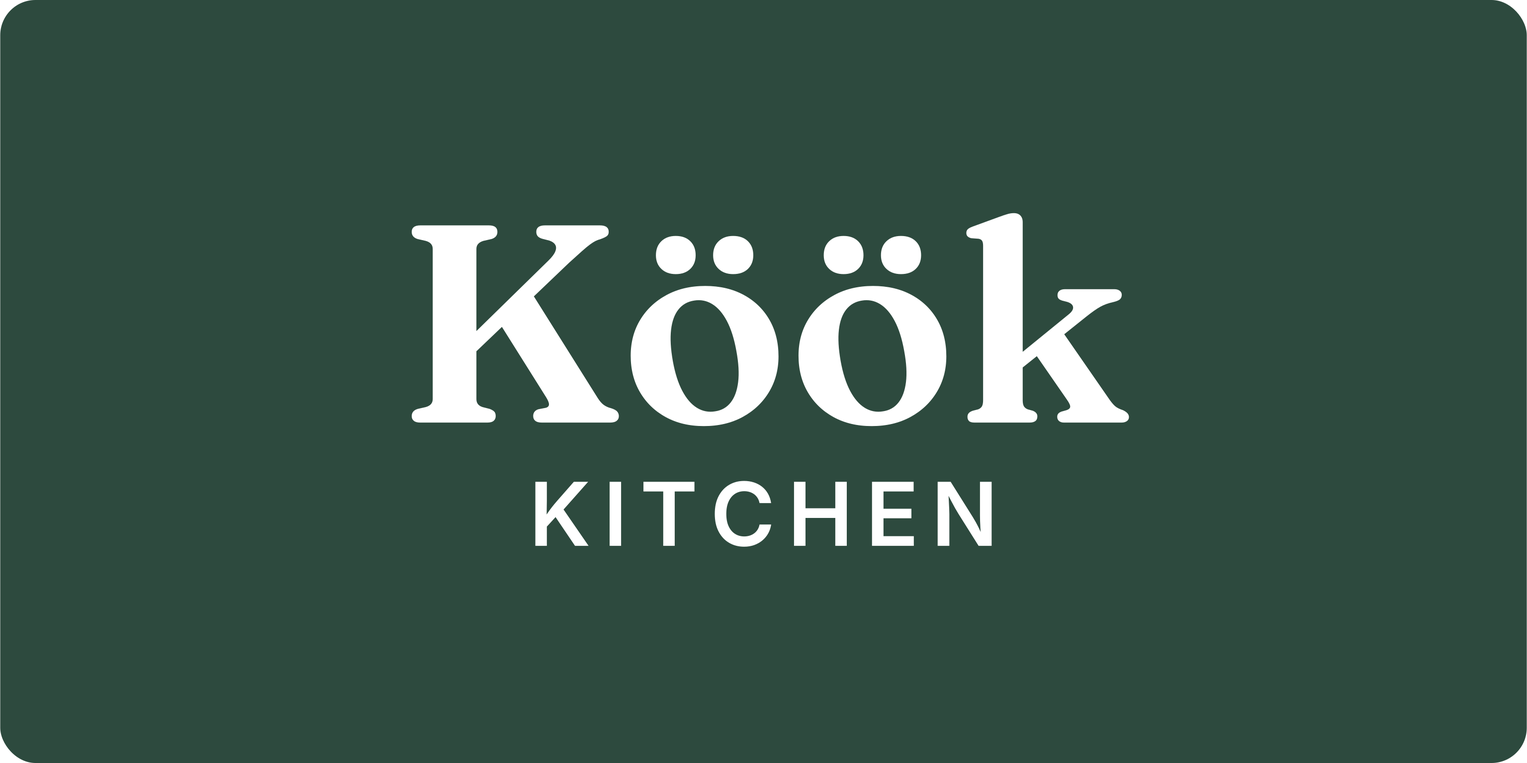
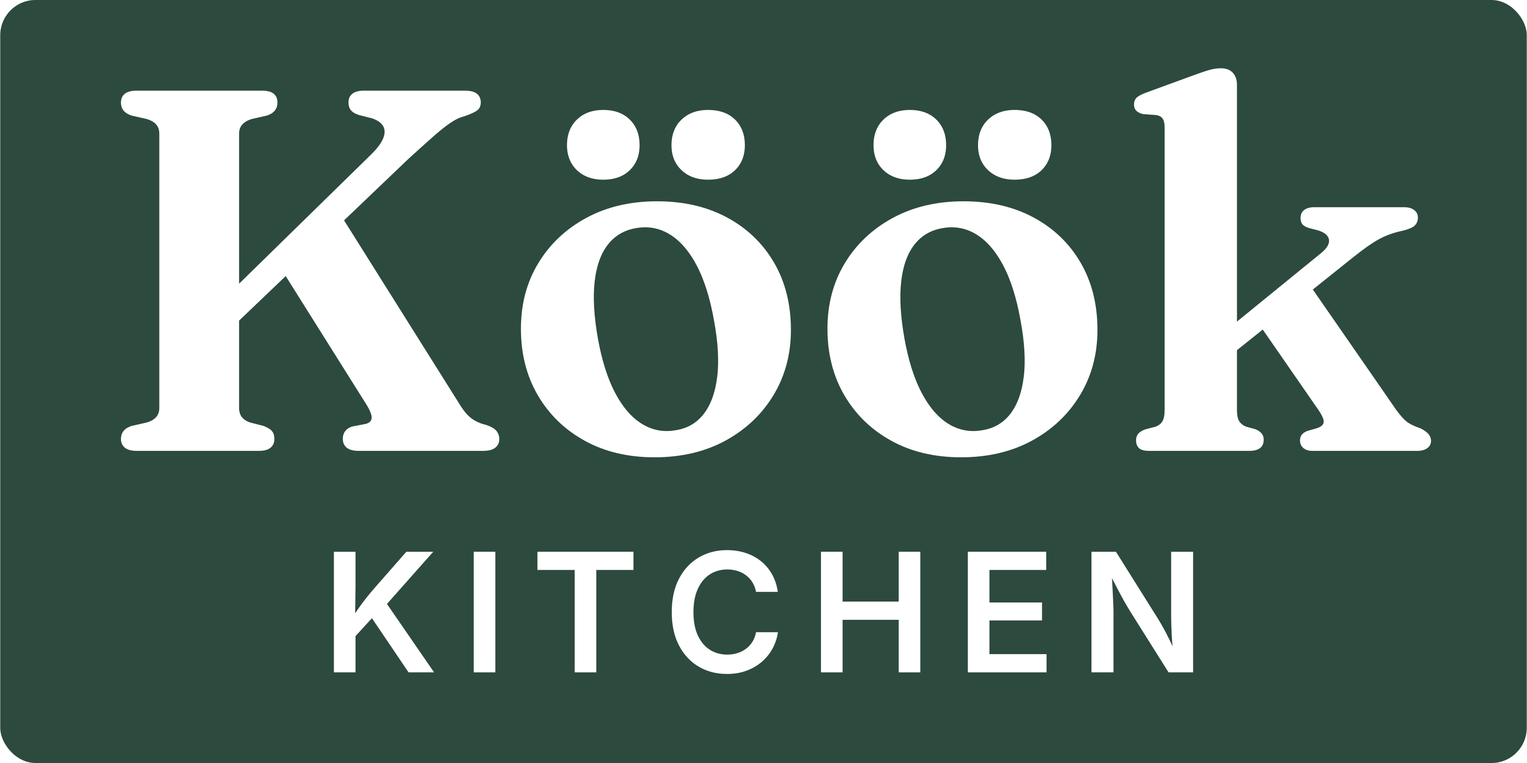
Köögi silt: sobita tekst sildile, vähem tühja rohelist
https://claude.ai/code/session_01DAokWKEoiBPxSJTSGSSjnQ

Changed region(s): [[0.0619, 0.0919, 0.959, 0.8879], [0.2165, 0.7042, 0.2784, 0.8879]]

diff --git a/public/turundus/index.html b/public/turundus/index.html
@@ -70,7 +70,7 @@
   <main>
     <h1>Turundusmaterjalid</h1>
     <p class="intro">Logod, bännerid, reklaamid ja QR-kleebised allalaadimiseks. Leht pole avalikult lingitud ega otsingumootoritele nähtav — jaga ainult otselinki.</p>
-    <section><h2>Logod <small>Logo files</small></h2><a class="file" href="willipu_logo.svg" download="willipu_logo.svg"><span class="thumb"><span class="ext">SVG</span></span><span class="meta"><strong>Logo, värviline — vektor (SVG)</strong><small>willipu_logo.svg · 2 KB</small></span><span class="dl">⬇</span></a><a class="file" href="willipu_logo_white.svg" download="willipu_logo_white.svg"><span class="thumb"><span class="ext">SVG</span></span><span class="meta"><strong>Logo, valge — vektor (SVG)</strong><small>willipu_logo_white.svg · 2 KB</small></span><span class="dl">⬇</span></a><a class="file" href="willipu_logo.pdf" download="willipu_logo.pdf"><span class="thumb"><span class="ext">PDF</span></span><span class="meta"><strong>Logo — vektor (PDF)</strong><small>willipu_logo.pdf · 2 KB</small></span><span class="dl">⬇</span></a><a class="file" href="willipu_logo.png" download="willipu_logo.png"><span class="thumb"><img src="willipu_logo.png" loading="lazy" alt=""></span><span class="meta"><strong>Logo, värviline — läbipaistev PNG</strong><small>willipu_logo.png · 28 KB</small></span><span class="dl">⬇</span></a><a class="file" href="willipu_logo_white.png" download="willipu_logo_white.png"><span class="thumb"><img src="willipu_logo_white.png" loading="lazy" alt=""></span><span class="meta"><strong>Logo, valge — läbipaistev PNG</strong><small>willipu_logo_white.png · 24 KB</small></span><span class="dl">⬇</span></a></section><section><h2>Bännerid <small>Print banners · 2200×1000 mm</small></h2><a class="file" href="willipu_banner_2200x1000.pdf" download="willipu_banner_2200x1000.pdf"><span class="thumb"><span class="ext">PDF</span></span><span class="meta"><strong>Suur bänner 1 — trükifail (PDF)</strong><small>willipu_banner_2200x1000.pdf · 391 KB</small></span><span class="dl">⬇</span></a><a class="file" href="willipu_banner_2.pdf" download="willipu_banner_2.pdf"><span class="thumb"><span class="ext">PDF</span></span><span class="meta"><strong>Suur bänner 2 — trükifail (PDF)</strong><small>willipu_banner_2.pdf · 412 KB</small></span><span class="dl">⬇</span></a></section><section><h2>Facebook <small>Social media images</small></h2><a class="file" href="willipu_facebook_cover.jpg" download="willipu_facebook_cover.jpg"><span class="thumb"><img src="willipu_facebook_cover.jpg" loading="lazy" alt=""></span><span class="meta"><strong>Kaanefoto · 1640×624</strong><small>willipu_facebook_cover.jpg · 277 KB</small></span><span class="dl">⬇</span></a><a class="file" href="willipu_facebook_profile.jpg" download="willipu_facebook_profile.jpg"><span class="thumb"><img src="willipu_facebook_profile.jpg" loading="lazy" alt=""></span><span class="meta"><strong>Profiilipilt · 800×800</strong><small>willipu_facebook_profile.jpg · 63 KB</small></span><span class="dl">⬇</span></a><a class="file" href="willipu_fb_ad_1080.jpg" download="willipu_fb_ad_1080.jpg"><span class="thumb"><img src="willipu_fb_ad_1080.jpg" loading="lazy" alt=""></span><span class="meta"><strong>Reklaam · 1080×1080</strong><small>willipu_fb_ad_1080.jpg · 299 KB</small></span><span class="dl">⬇</span></a><a class="file" href="willipu_fb_ad_karavan.jpg" download="willipu_fb_ad_karavan.jpg"><span class="thumb"><img src="willipu_fb_ad_karavan.jpg" loading="lazy" alt=""></span><span class="meta"><strong>Karavani reklaam · 1080×1350</strong><small>willipu_fb_ad_karavan.jpg · 300 KB</small></span><span class="dl">⬇</span></a><a class="file" href="willipu_fb_ad_kar1.jpg" download="willipu_fb_ad_kar1.jpg"><span class="thumb"><img src="willipu_fb_ad_kar1.jpg" loading="lazy" alt=""></span><span class="meta"><strong>Karavani reklaam, taust 1 · 1080×1350</strong><small>willipu_fb_ad_kar1.jpg · 301 KB</small></span><span class="dl">⬇</span></a><a class="file" href="willipu_fb_ad_kar2.jpg" download="willipu_fb_ad_kar2.jpg"><span class="thumb"><img src="willipu_fb_ad_kar2.jpg" loading="lazy" alt=""></span><span class="meta"><strong>Karavani reklaam, taust 2 · 1080×1350</strong><small>willipu_fb_ad_kar2.jpg · 282 KB</small></span><span class="dl">⬇</span></a><a class="file" href="willipu_fb_ad_kar3.jpg" download="willipu_fb_ad_kar3.jpg"><span class="thumb"><img src="willipu_fb_ad_kar3.jpg" loading="lazy" alt=""></span><span class="meta"><strong>Karavani reklaam, taust 3 · 1080×1350</strong><small>willipu_fb_ad_kar3.jpg · 442 KB</small></span><span class="dl">⬇</span></a></section><section><h2>QR-kleebised · Pesumasin <small>willipu.ee/wash → juhend/pesumasin/</small></h2><a class="file" href="willipu_kleebis_pesumasin.pdf" download="willipu_kleebis_pesumasin.pdf"><span class="thumb"><span class="ext">PDF</span></span><span class="meta"><strong>Kleebis 120×120 mm — trükifail (vektor-PDF)</strong><small>willipu_kleebis_pesumasin.pdf · 60 KB</small></span><span class="dl">⬇</span></a><a class="file" href="willipu_kleebis_pesumasin.svg" download="willipu_kleebis_pesumasin.svg"><span class="thumb"><span class="ext">SVG</span></span><span class="meta"><strong>Kleebis — vektor (SVG)</strong><small>willipu_kleebis_pesumasin.svg · 79 KB</small></span><span class="dl">⬇</span></a><a class="file" href="willipu_kleebis_pesumasin.png" download="willipu_kleebis_pesumasin.png"><span class="thumb"><img src="willipu_kleebis_pesumasin.png" loading="lazy" alt=""></span><span class="meta"><strong>Kleebis — eelvaade (PNG, 300 dpi)</strong><small>willipu_kleebis_pesumasin.png · 68 KB</small></span><span class="dl">⬇</span></a><a class="file" href="willipu_qr_pesumasin.svg" download="willipu_qr_pesumasin.svg"><span class="thumb"><span class="ext">SVG</span></span><span class="meta"><strong>Ainult QR-kood — vektor (SVG)</strong><small>willipu_qr_pesumasin.svg · 14 KB</small></span><span class="dl">⬇</span></a><a class="file" href="willipu_qr_pesumasin.png" download="willipu_qr_pesumasin.png"><span class="thumb"><img src="willipu_qr_pesumasin.png" loading="lazy" alt=""></span><span class="meta"><strong>Ainult QR-kood (PNG)</strong><small>willipu_qr_pesumasin.png · 4 KB</small></span><span class="dl">⬇</span></a></section><section><h2>QR-kleebised · Pesukuivati <small>willipu.ee/dry → juhend/pesukuivati/</small></h2><a class="file" href="willipu_kleebis_pesukuivati.pdf" download="willipu_kleebis_pesukuivati.pdf"><span class="thumb"><span class="ext">PDF</span></span><span class="meta"><strong>Kleebis 120×120 mm — trükifail (vektor-PDF)</strong><small>willipu_kleebis_pesukuivati.pdf · 57 KB</small></span><span class="dl">⬇</span></a><a class="file" href="willipu_kleebis_pesukuivati.svg" download="willipu_kleebis_pesukuivati.svg"><span class="thumb"><span class="ext">SVG</span></span><span class="meta"><strong>Kleebis — vektor (SVG)</strong><small>willipu_kleebis_pesukuivati.svg · 76 KB</small></span><span class="dl">⬇</span></a><a class="file" href="willipu_kleebis_pesukuivati.png" download="willipu_kleebis_pesukuivati.png"><span class="thumb"><img src="willipu_kleebis_pesukuivati.png" loading="lazy" alt=""></span><span class="meta"><strong>Kleebis — eelvaade (PNG, 300 dpi)</strong><small>willipu_kleebis_pesukuivati.png · 68 KB</small></span><span class="dl">⬇</span></a><a class="file" href="willipu_qr_pesukuivati.svg" download="willipu_qr_pesukuivati.svg"><span class="thumb"><span class="ext">SVG</span></span><span class="meta"><strong>Ainult QR-kood — vektor (SVG)</strong><small>willipu_qr_pesukuivati.svg · 14 KB</small></span><span class="dl">⬇</span></a><a class="file" href="willipu_qr_pesukuivati.png" download="willipu_qr_pesukuivati.png"><span class="thumb"><img src="willipu_qr_pesukuivati.png" loading="lazy" alt=""></span><span class="meta"><strong>Ainult QR-kood (PNG)</strong><small>willipu_qr_pesukuivati.png · 4 KB</small></span><span class="dl">⬇</span></a></section><section><h2>QR-kleebised · Saun <small>willipu.ee/sauna → juhend/saun/</small></h2><a class="file" href="willipu_kleebis_saun.pdf" download="willipu_kleebis_saun.pdf"><span class="thumb"><span class="ext">PDF</span></span><span class="meta"><strong>Kleebis 120×120 mm — trükifail (vektor-PDF)</strong><small>willipu_kleebis_saun.pdf · 55 KB</small></span><span class="dl">⬇</span></a><a class="file" href="willipu_kleebis_saun.svg" download="willipu_kleebis_saun.svg"><span class="thumb"><span class="ext">SVG</span></span><span class="meta"><strong>Kleebis — vektor (SVG)</strong><small>willipu_kleebis_saun.svg · 76 KB</small></span><span class="dl">⬇</span></a><a class="file" href="willipu_kleebis_saun.png" download="willipu_kleebis_saun.png"><span class="thumb"><img src="willipu_kleebis_saun.png" loading="lazy" alt=""></span><span class="meta"><strong>Kleebis — eelvaade (PNG, 300 dpi)</strong><small>willipu_kleebis_saun.png · 64 KB</small></span><span class="dl">⬇</span></a><a class="file" href="willipu_qr_saun.svg" download="willipu_qr_saun.svg"><span class="thumb"><span class="ext">SVG</span></span><span class="meta"><strong>Ainult QR-kood — vektor (SVG)</strong><small>willipu_qr_saun.svg · 18 KB</small></span><span class="dl">⬇</span></a><a class="file" href="willipu_qr_saun.png" download="willipu_qr_saun.png"><span class="thumb"><img src="willipu_qr_saun.png" loading="lazy" alt=""></span><span class="meta"><strong>Ainult QR-kood (PNG)</strong><small>willipu_qr_saun.png · 4 KB</small></span><span class="dl">⬇</span></a></section><section><h2>Uksesildid · Läbipääs keelatud <small>Door signs · 120×70 mm</small></h2><a class="file" href="willipu_kleebis_privaatruum.pdf" download="willipu_kleebis_privaatruum.pdf"><span class="thumb"><span class="ext">PDF</span></span><span class="meta"><strong>Uksesilt „Läbipääs keelatud” 120×70 mm — trükifail (vektor-PDF)</strong><small>willipu_kleebis_privaatruum.pdf · 22 KB</small></span><span class="dl">⬇</span></a><a class="file" href="willipu_kleebis_privaatruum.svg" download="willipu_kleebis_privaatruum.svg"><span class="thumb"><span class="ext">SVG</span></span><span class="meta"><strong>Uksesilt „Läbipääs keelatud” — vektor (SVG)</strong><small>willipu_kleebis_privaatruum.svg · 26 KB</small></span><span class="dl">⬇</span></a><a class="file" href="willipu_kleebis_privaatruum.png" download="willipu_kleebis_privaatruum.png"><span class="thumb"><img src="willipu_kleebis_privaatruum.png" loading="lazy" alt=""></span><span class="meta"><strong>Uksesilt „Läbipääs keelatud” — eelvaade (PNG, 300 dpi)</strong><small>willipu_kleebis_privaatruum.png · 65 KB</small></span><span class="dl">⬇</span></a></section><section><h2>Uksesildid · Videovalve <small>GDPR notice · 80×120 mm</small></h2><a class="file" href="willipu_kleebis_videovalve.pdf" download="willipu_kleebis_videovalve.pdf"><span class="thumb"><span class="ext">PDF</span></span><span class="meta"><strong>Videovalve teavitus 80×120 mm — trükifail (vektor-PDF)</strong><small>willipu_kleebis_videovalve.pdf · 56 KB</small></span><span class="dl">⬇</span></a><a class="file" href="willipu_kleebis_videovalve.svg" download="willipu_kleebis_videovalve.svg"><span class="thumb"><span class="ext">SVG</span></span><span class="meta"><strong>Videovalve teavitus — vektor (SVG)</strong><small>willipu_kleebis_videovalve.svg · 74 KB</small></span><span class="dl">⬇</span></a><a class="file" href="willipu_kleebis_videovalve.png" download="willipu_kleebis_videovalve.png"><span class="thumb"><img src="willipu_kleebis_videovalve.png" loading="lazy" alt=""></span><span class="meta"><strong>Videovalve teavitus — eelvaade (PNG, 300 dpi)</strong><small>willipu_kleebis_videovalve.png · 104 KB</small></span><span class="dl">⬇</span></a></section><section><h2>Uksesildid · Köök <small>Kitchen door sign · 260×130 mm</small></h2><a class="file" href="willipu_silt_kook.pdf" download="willipu_silt_kook.pdf"><span class="thumb"><span class="ext">PDF</span></span><span class="meta"><strong>Köögi uksesilt 260×130 mm — trükifail (vektor-PDF)</strong><small>willipu_silt_kook.pdf · 6 KB</small></span><span class="dl">⬇</span></a><a class="file" href="willipu_silt_kook.svg" download="willipu_silt_kook.svg"><span class="thumb"><span class="ext">SVG</span></span><span class="meta"><strong>Köögi uksesilt — vektor (SVG)</strong><small>willipu_silt_kook.svg · 6 KB</small></span><span class="dl">⬇</span></a><a class="file" href="willipu_silt_kook.png" download="willipu_silt_kook.png"><span class="thumb"><img src="willipu_silt_kook.png" loading="lazy" alt=""></span><span class="meta"><strong>Köögi uksesilt — eelvaade (PNG, 300 dpi)</strong><small>willipu_silt_kook.png · 90 KB</small></span><span class="dl">⬇</span></a></section><section><h2>Infotahvlid <small>Info boards · A3, 297×420 mm</small></h2><a class="file" href="willipu_tahvel_purgimine.pdf" download="willipu_tahvel_purgimine.pdf"><span class="thumb"><span class="ext">PDF</span></span><span class="meta"><strong>Purgimisplatsi infotahvel A3 — trükifail (vektor-PDF)</strong><small>willipu_tahvel_purgimine.pdf · 99 KB</small></span><span class="dl">⬇</span></a><a class="file" href="willipu_tahvel_purgimine.svg" download="willipu_tahvel_purgimine.svg"><span class="thumb"><span class="ext">SVG</span></span><span class="meta"><strong>Purgimisplatsi infotahvel — vektor (SVG)</strong><small>willipu_tahvel_purgimine.svg · 118 KB</small></span><span class="dl">⬇</span></a><a class="file" href="willipu_tahvel_purgimine.png" download="willipu_tahvel_purgimine.png"><span class="thumb"><img src="willipu_tahvel_purgimine.png" loading="lazy" alt=""></span><span class="meta"><strong>Purgimisplatsi infotahvel — eelvaade (PNG)</strong><small>willipu_tahvel_purgimine.png · 167 KB</small></span><span class="dl">⬇</span></a></section><section><h2>Piktogrammid <small>Site pictograms · 19 tk, SVG + PNG</small></h2>
+    <section><h2>Logod <small>Logo files</small></h2><a class="file" href="willipu_logo.svg" download="willipu_logo.svg"><span class="thumb"><span class="ext">SVG</span></span><span class="meta"><strong>Logo, värviline — vektor (SVG)</strong><small>willipu_logo.svg · 2 KB</small></span><span class="dl">⬇</span></a><a class="file" href="willipu_logo_white.svg" download="willipu_logo_white.svg"><span class="thumb"><span class="ext">SVG</span></span><span class="meta"><strong>Logo, valge — vektor (SVG)</strong><small>willipu_logo_white.svg · 2 KB</small></span><span class="dl">⬇</span></a><a class="file" href="willipu_logo.pdf" download="willipu_logo.pdf"><span class="thumb"><span class="ext">PDF</span></span><span class="meta"><strong>Logo — vektor (PDF)</strong><small>willipu_logo.pdf · 2 KB</small></span><span class="dl">⬇</span></a><a class="file" href="willipu_logo.png" download="willipu_logo.png"><span class="thumb"><img src="willipu_logo.png" loading="lazy" alt=""></span><span class="meta"><strong>Logo, värviline — läbipaistev PNG</strong><small>willipu_logo.png · 28 KB</small></span><span class="dl">⬇</span></a><a class="file" href="willipu_logo_white.png" download="willipu_logo_white.png"><span class="thumb"><img src="willipu_logo_white.png" loading="lazy" alt=""></span><span class="meta"><strong>Logo, valge — läbipaistev PNG</strong><small>willipu_logo_white.png · 24 KB</small></span><span class="dl">⬇</span></a></section><section><h2>Bännerid <small>Print banners · 2200×1000 mm</small></h2><a class="file" href="willipu_banner_2200x1000.pdf" download="willipu_banner_2200x1000.pdf"><span class="thumb"><span class="ext">PDF</span></span><span class="meta"><strong>Suur bänner 1 — trükifail (PDF)</strong><small>willipu_banner_2200x1000.pdf · 391 KB</small></span><span class="dl">⬇</span></a><a class="file" href="willipu_banner_2.pdf" download="willipu_banner_2.pdf"><span class="thumb"><span class="ext">PDF</span></span><span class="meta"><strong>Suur bänner 2 — trükifail (PDF)</strong><small>willipu_banner_2.pdf · 412 KB</small></span><span class="dl">⬇</span></a></section><section><h2>Facebook <small>Social media images</small></h2><a class="file" href="willipu_facebook_cover.jpg" download="willipu_facebook_cover.jpg"><span class="thumb"><img src="willipu_facebook_cover.jpg" loading="lazy" alt=""></span><span class="meta"><strong>Kaanefoto · 1640×624</strong><small>willipu_facebook_cover.jpg · 277 KB</small></span><span class="dl">⬇</span></a><a class="file" href="willipu_facebook_profile.jpg" download="willipu_facebook_profile.jpg"><span class="thumb"><img src="willipu_facebook_profile.jpg" loading="lazy" alt=""></span><span class="meta"><strong>Profiilipilt · 800×800</strong><small>willipu_facebook_profile.jpg · 63 KB</small></span><span class="dl">⬇</span></a><a class="file" href="willipu_fb_ad_1080.jpg" download="willipu_fb_ad_1080.jpg"><span class="thumb"><img src="willipu_fb_ad_1080.jpg" loading="lazy" alt=""></span><span class="meta"><strong>Reklaam · 1080×1080</strong><small>willipu_fb_ad_1080.jpg · 299 KB</small></span><span class="dl">⬇</span></a><a class="file" href="willipu_fb_ad_karavan.jpg" download="willipu_fb_ad_karavan.jpg"><span class="thumb"><img src="willipu_fb_ad_karavan.jpg" loading="lazy" alt=""></span><span class="meta"><strong>Karavani reklaam · 1080×1350</strong><small>willipu_fb_ad_karavan.jpg · 300 KB</small></span><span class="dl">⬇</span></a><a class="file" href="willipu_fb_ad_kar1.jpg" download="willipu_fb_ad_kar1.jpg"><span class="thumb"><img src="willipu_fb_ad_kar1.jpg" loading="lazy" alt=""></span><span class="meta"><strong>Karavani reklaam, taust 1 · 1080×1350</strong><small>willipu_fb_ad_kar1.jpg · 301 KB</small></span><span class="dl">⬇</span></a><a class="file" href="willipu_fb_ad_kar2.jpg" download="willipu_fb_ad_kar2.jpg"><span class="thumb"><img src="willipu_fb_ad_kar2.jpg" loading="lazy" alt=""></span><span class="meta"><strong>Karavani reklaam, taust 2 · 1080×1350</strong><small>willipu_fb_ad_kar2.jpg · 282 KB</small></span><span class="dl">⬇</span></a><a class="file" href="willipu_fb_ad_kar3.jpg" download="willipu_fb_ad_kar3.jpg"><span class="thumb"><img src="willipu_fb_ad_kar3.jpg" loading="lazy" alt=""></span><span class="meta"><strong>Karavani reklaam, taust 3 · 1080×1350</strong><small>willipu_fb_ad_kar3.jpg · 442 KB</small></span><span class="dl">⬇</span></a></section><section><h2>QR-kleebised · Pesumasin <small>willipu.ee/wash → juhend/pesumasin/</small></h2><a class="file" href="willipu_kleebis_pesumasin.pdf" download="willipu_kleebis_pesumasin.pdf"><span class="thumb"><span class="ext">PDF</span></span><span class="meta"><strong>Kleebis 120×120 mm — trükifail (vektor-PDF)</strong><small>willipu_kleebis_pesumasin.pdf · 60 KB</small></span><span class="dl">⬇</span></a><a class="file" href="willipu_kleebis_pesumasin.svg" download="willipu_kleebis_pesumasin.svg"><span class="thumb"><span class="ext">SVG</span></span><span class="meta"><strong>Kleebis — vektor (SVG)</strong><small>willipu_kleebis_pesumasin.svg · 79 KB</small></span><span class="dl">⬇</span></a><a class="file" href="willipu_kleebis_pesumasin.png" download="willipu_kleebis_pesumasin.png"><span class="thumb"><img src="willipu_kleebis_pesumasin.png" loading="lazy" alt=""></span><span class="meta"><strong>Kleebis — eelvaade (PNG, 300 dpi)</strong><small>willipu_kleebis_pesumasin.png · 68 KB</small></span><span class="dl">⬇</span></a><a class="file" href="willipu_qr_pesumasin.svg" download="willipu_qr_pesumasin.svg"><span class="thumb"><span class="ext">SVG</span></span><span class="meta"><strong>Ainult QR-kood — vektor (SVG)</strong><small>willipu_qr_pesumasin.svg · 14 KB</small></span><span class="dl">⬇</span></a><a class="file" href="willipu_qr_pesumasin.png" download="willipu_qr_pesumasin.png"><span class="thumb"><img src="willipu_qr_pesumasin.png" loading="lazy" alt=""></span><span class="meta"><strong>Ainult QR-kood (PNG)</strong><small>willipu_qr_pesumasin.png · 4 KB</small></span><span class="dl">⬇</span></a></section><section><h2>QR-kleebised · Pesukuivati <small>willipu.ee/dry → juhend/pesukuivati/</small></h2><a class="file" href="willipu_kleebis_pesukuivati.pdf" download="willipu_kleebis_pesukuivati.pdf"><span class="thumb"><span class="ext">PDF</span></span><span class="meta"><strong>Kleebis 120×120 mm — trükifail (vektor-PDF)</strong><small>willipu_kleebis_pesukuivati.pdf · 57 KB</small></span><span class="dl">⬇</span></a><a class="file" href="willipu_kleebis_pesukuivati.svg" download="willipu_kleebis_pesukuivati.svg"><span class="thumb"><span class="ext">SVG</span></span><span class="meta"><strong>Kleebis — vektor (SVG)</strong><small>willipu_kleebis_pesukuivati.svg · 76 KB</small></span><span class="dl">⬇</span></a><a class="file" href="willipu_kleebis_pesukuivati.png" download="willipu_kleebis_pesukuivati.png"><span class="thumb"><img src="willipu_kleebis_pesukuivati.png" loading="lazy" alt=""></span><span class="meta"><strong>Kleebis — eelvaade (PNG, 300 dpi)</strong><small>willipu_kleebis_pesukuivati.png · 68 KB</small></span><span class="dl">⬇</span></a><a class="file" href="willipu_qr_pesukuivati.svg" download="willipu_qr_pesukuivati.svg"><span class="thumb"><span class="ext">SVG</span></span><span class="meta"><strong>Ainult QR-kood — vektor (SVG)</strong><small>willipu_qr_pesukuivati.svg · 14 KB</small></span><span class="dl">⬇</span></a><a class="file" href="willipu_qr_pesukuivati.png" download="willipu_qr_pesukuivati.png"><span class="thumb"><img src="willipu_qr_pesukuivati.png" loading="lazy" alt=""></span><span class="meta"><strong>Ainult QR-kood (PNG)</strong><small>willipu_qr_pesukuivati.png · 4 KB</small></span><span class="dl">⬇</span></a></section><section><h2>QR-kleebised · Saun <small>willipu.ee/sauna → juhend/saun/</small></h2><a class="file" href="willipu_kleebis_saun.pdf" download="willipu_kleebis_saun.pdf"><span class="thumb"><span class="ext">PDF</span></span><span class="meta"><strong>Kleebis 120×120 mm — trükifail (vektor-PDF)</strong><small>willipu_kleebis_saun.pdf · 55 KB</small></span><span class="dl">⬇</span></a><a class="file" href="willipu_kleebis_saun.svg" download="willipu_kleebis_saun.svg"><span class="thumb"><span class="ext">SVG</span></span><span class="meta"><strong>Kleebis — vektor (SVG)</strong><small>willipu_kleebis_saun.svg · 76 KB</small></span><span class="dl">⬇</span></a><a class="file" href="willipu_kleebis_saun.png" download="willipu_kleebis_saun.png"><span class="thumb"><img src="willipu_kleebis_saun.png" loading="lazy" alt=""></span><span class="meta"><strong>Kleebis — eelvaade (PNG, 300 dpi)</strong><small>willipu_kleebis_saun.png · 64 KB</small></span><span class="dl">⬇</span></a><a class="file" href="willipu_qr_saun.svg" download="willipu_qr_saun.svg"><span class="thumb"><span class="ext">SVG</span></span><span class="meta"><strong>Ainult QR-kood — vektor (SVG)</strong><small>willipu_qr_saun.svg · 18 KB</small></span><span class="dl">⬇</span></a><a class="file" href="willipu_qr_saun.png" download="willipu_qr_saun.png"><span class="thumb"><img src="willipu_qr_saun.png" loading="lazy" alt=""></span><span class="meta"><strong>Ainult QR-kood (PNG)</strong><small>willipu_qr_saun.png · 4 KB</small></span><span class="dl">⬇</span></a></section><section><h2>Uksesildid · Läbipääs keelatud <small>Door signs · 120×70 mm</small></h2><a class="file" href="willipu_kleebis_privaatruum.pdf" download="willipu_kleebis_privaatruum.pdf"><span class="thumb"><span class="ext">PDF</span></span><span class="meta"><strong>Uksesilt „Läbipääs keelatud” 120×70 mm — trükifail (vektor-PDF)</strong><small>willipu_kleebis_privaatruum.pdf · 22 KB</small></span><span class="dl">⬇</span></a><a class="file" href="willipu_kleebis_privaatruum.svg" download="willipu_kleebis_privaatruum.svg"><span class="thumb"><span class="ext">SVG</span></span><span class="meta"><strong>Uksesilt „Läbipääs keelatud” — vektor (SVG)</strong><small>willipu_kleebis_privaatruum.svg · 26 KB</small></span><span class="dl">⬇</span></a><a class="file" href="willipu_kleebis_privaatruum.png" download="willipu_kleebis_privaatruum.png"><span class="thumb"><img src="willipu_kleebis_privaatruum.png" loading="lazy" alt=""></span><span class="meta"><strong>Uksesilt „Läbipääs keelatud” — eelvaade (PNG, 300 dpi)</strong><small>willipu_kleebis_privaatruum.png · 65 KB</small></span><span class="dl">⬇</span></a></section><section><h2>Uksesildid · Videovalve <small>GDPR notice · 80×120 mm</small></h2><a class="file" href="willipu_kleebis_videovalve.pdf" download="willipu_kleebis_videovalve.pdf"><span class="thumb"><span class="ext">PDF</span></span><span class="meta"><strong>Videovalve teavitus 80×120 mm — trükifail (vektor-PDF)</strong><small>willipu_kleebis_videovalve.pdf · 56 KB</small></span><span class="dl">⬇</span></a><a class="file" href="willipu_kleebis_videovalve.svg" download="willipu_kleebis_videovalve.svg"><span class="thumb"><span class="ext">SVG</span></span><span class="meta"><strong>Videovalve teavitus — vektor (SVG)</strong><small>willipu_kleebis_videovalve.svg · 74 KB</small></span><span class="dl">⬇</span></a><a class="file" href="willipu_kleebis_videovalve.png" download="willipu_kleebis_videovalve.png"><span class="thumb"><img src="willipu_kleebis_videovalve.png" loading="lazy" alt=""></span><span class="meta"><strong>Videovalve teavitus — eelvaade (PNG, 300 dpi)</strong><small>willipu_kleebis_videovalve.png · 104 KB</small></span><span class="dl">⬇</span></a></section><section><h2>Uksesildid · Köök <small>Kitchen door sign · 260×130 mm</small></h2><a class="file" href="willipu_silt_kook.pdf" download="willipu_silt_kook.pdf"><span class="thumb"><span class="ext">PDF</span></span><span class="meta"><strong>Köögi uksesilt 260×130 mm — trükifail (vektor-PDF)</strong><small>willipu_silt_kook.pdf · 6 KB</small></span><span class="dl">⬇</span></a><a class="file" href="willipu_silt_kook.svg" download="willipu_silt_kook.svg"><span class="thumb"><span class="ext">SVG</span></span><span class="meta"><strong>Köögi uksesilt — vektor (SVG)</strong><small>willipu_silt_kook.svg · 6 KB</small></span><span class="dl">⬇</span></a><a class="file" href="willipu_silt_kook.png" download="willipu_silt_kook.png"><span class="thumb"><img src="willipu_silt_kook.png" loading="lazy" alt=""></span><span class="meta"><strong>Köögi uksesilt — eelvaade (PNG, 300 dpi)</strong><small>willipu_silt_kook.png · 142 KB</small></span><span class="dl">⬇</span></a></section><section><h2>Infotahvlid <small>Info boards · A3, 297×420 mm</small></h2><a class="file" href="willipu_tahvel_purgimine.pdf" download="willipu_tahvel_purgimine.pdf"><span class="thumb"><span class="ext">PDF</span></span><span class="meta"><strong>Purgimisplatsi infotahvel A3 — trükifail (vektor-PDF)</strong><small>willipu_tahvel_purgimine.pdf · 99 KB</small></span><span class="dl">⬇</span></a><a class="file" href="willipu_tahvel_purgimine.svg" download="willipu_tahvel_purgimine.svg"><span class="thumb"><span class="ext">SVG</span></span><span class="meta"><strong>Purgimisplatsi infotahvel — vektor (SVG)</strong><small>willipu_tahvel_purgimine.svg · 118 KB</small></span><span class="dl">⬇</span></a><a class="file" href="willipu_tahvel_purgimine.png" download="willipu_tahvel_purgimine.png"><span class="thumb"><img src="willipu_tahvel_purgimine.png" loading="lazy" alt=""></span><span class="meta"><strong>Purgimisplatsi infotahvel — eelvaade (PNG)</strong><small>willipu_tahvel_purgimine.png · 167 KB</small></span><span class="dl">⬇</span></a></section><section><h2>Piktogrammid <small>Site pictograms · 19 tk, SVG + PNG</small></h2>
 <a class="file" href="piktogrammid/willipu_piktogrammid.zip" download="willipu_piktogrammid.zip">
 <span class="thumb"><span class="ext">ZIP</span></span>
 <span class="meta"><strong>Kõik piktogrammid ühe failina</strong><small>willipu_piktogrammid.zip · 126 KB</small></span>

diff --git a/make_kook_silt.py b/make_kook_silt.py
@@ -71,8 +71,36 @@ def tracked(font_file, text, em_mm, baseline_y, fill, tracking, x):
     return total, f'<g transform="translate({x:.3f} {baseline_y:.3f})" fill="{fill}">{"".join(parts)}</g>'
 
 
-# text block is centred on the sign
-TEXT_CX = 130.0
+# ── layout: fit the type to the sign so little empty green is left ─────────
+W, H = 260.0, 130.0
+MARGIN_X = 16.0          # side margin
+TEXT_CX = W / 2
+
+def cap_ratio(fn):
+    f = _tt(fn)
+    return f["OS/2"].sCapHeight / f["head"].unitsPerEm
+
+def fit_em(fn, text, target_w, tracking=0.0):
+    """Em size at which `text` is exactly `target_w` mm wide."""
+    w1, _ = text_outline(fn, text, 1.0)
+    if tracking:
+        w1 += tracking * max(len(text) - 1, 0)
+    return target_w / w1
+
+ET_FN, EN_FN = "fraunces-600.ttf", "inter-600.ttf"
+EN_TRACK = 0.14
+
+et_em = fit_em(ET_FN, "Köök", W - 2 * MARGIN_X)
+en_em = fit_em(EN_FN, "KITCHEN", (W - 2 * MARGIN_X) * 0.66, EN_TRACK)
+
+et_cap = et_em * cap_ratio(ET_FN)
+en_cap = en_em * cap_ratio(EN_FN)
+GAP = et_cap * 0.28
+
+block_h = et_cap + GAP + en_cap
+top = (H - block_h) / 2
+et_y = top + et_cap          # baseline of "Köök"
+en_y = et_y + GAP + en_cap   # baseline of "KITCHEN"
 
 def centred(fn, text, em, y, fill, tracking=None):
     if tracking is None:
@@ -81,8 +109,8 @@ def centred(fn, text, em, y, fill, tracking=None):
     w, _ = tracked(fn, text, em, y, fill, tracking, 0)
     return tracked(fn, text, em, y, fill, tracking, TEXT_CX - w / 2)[1]
 
-et_frag = centred("fraunces-600.ttf", "Köök", 48.0, 72.0, "#ffffff")
-en_frag = centred("inter-600.ttf", "KITCHEN", 15.0, 93.0, "#ffffff", tracking=0.14)
+et_frag = centred(ET_FN, "Köök", et_em, et_y, "#ffffff")
+en_frag = centred(EN_FN, "KITCHEN", en_em, en_y, "#ffffff", tracking=EN_TRACK)
 
 svg = f'''<svg xmlns="http://www.w3.org/2000/svg" width="260mm" height="130mm" viewBox="0 0 260 130">
   <rect width="260" height="130" rx="6" fill="{GREEN_HEX}"/>
